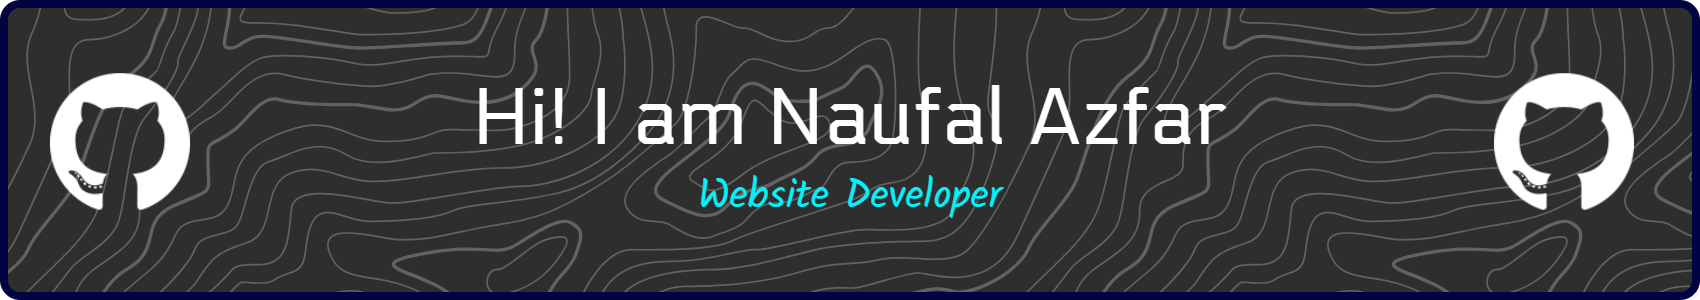
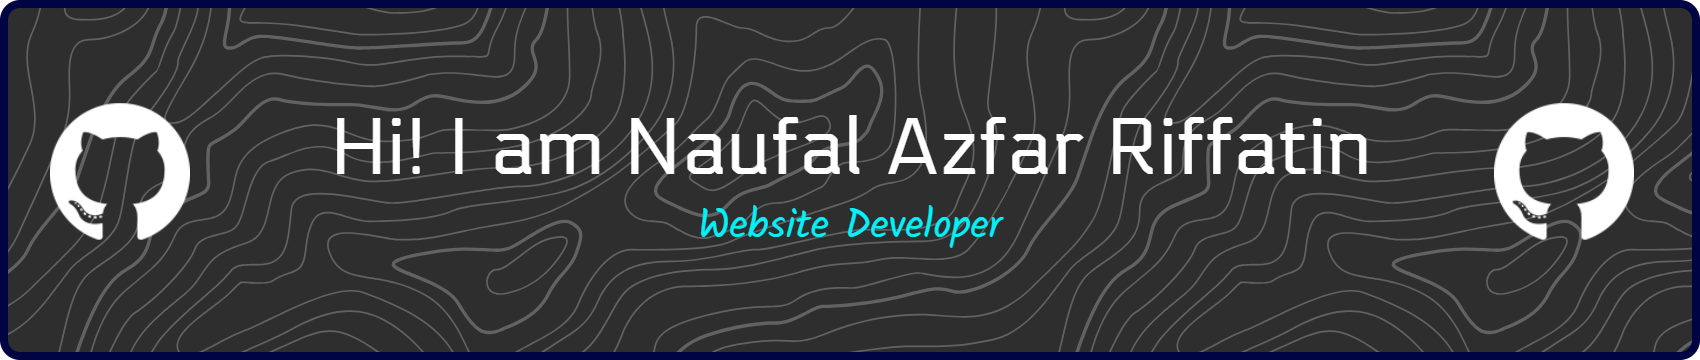
Update md

diff --git a/README.md b/README.md
@@ -1,17 +1,26 @@
 # Hi 👋, I'm Naufal Azfar Riffatin
 ![Naufal Azfar](img/github-banner.png)
 
-<p>I am a Website Developer who is passionate about learning and is curious.</p>
-<h2>🚀 Languages and Tools I Use</h2>
-<p><a target="_blank" href="https://raw.githubusercontent.com/devicons/devicon/master/icons/php/php-original.svg" style="display: inline-block;"><img src="https://raw.githubusercontent.com/devicons/devicon/master/icons/php/php-original.svg" alt="php" width="42" height="42" /></a>
-<a target="_blank" href="https://raw.githubusercontent.com/devicons/devicon/master/icons/css3/css3-original-wordmark.svg" style="display: inline-block;"><img src="https://raw.githubusercontent.com/devicons/devicon/master/icons/css3/css3-original-wordmark.svg" alt="css3" width="42" height="42" /></a>
-<a target="_blank" href="https://raw.githubusercontent.com/devicons/devicon/master/icons/html5/html5-original-wordmark.svg" style="display: inline-block;"><img src="https://raw.githubusercontent.com/devicons/devicon/master/icons/html5/html5-original-wordmark.svg" alt="html5" width="42" height="42" /></a>
-<a target="_blank" href="https://www.vectorlogo.zone/logos/tailwindcss/tailwindcss-icon.svg" style="display: inline-block;"><img src="https://www.vectorlogo.zone/logos/tailwindcss/tailwindcss-icon.svg" alt="tailwind" width="42" height="42" /></a>
-<a target="_blank" href="https://raw.githubusercontent.com/devicons/devicon/master/icons/bootstrap/bootstrap-plain-wordmark.svg" style="display: inline-block;"><img src="https://raw.githubusercontent.com/devicons/devicon/master/icons/bootstrap/bootstrap-plain-wordmark.svg" alt="bootstrap" width="42" height="42" /></a>
-<a target="_blank" href="https://raw.githubusercontent.com/devicons/devicon/master/icons/mysql/mysql-original-wordmark.svg" style="display: inline-block;"><img src="https://raw.githubusercontent.com/devicons/devicon/master/icons/mysql/mysql-original-wordmark.svg" alt="mysql" width="42" height="42" /></a>
-<a target="_blank" href="https://www.svgrepo.com/show/303229/microsoft-sql-server-logo.svg" style="display: inline-block;"><img src="https://www.svgrepo.com/show/303229/microsoft-sql-server-logo.svg" alt="mssql" width="42" height="42" /></a>
-<a target="_blank" href="https://www.vectorlogo.zone/logos/sqlite/sqlite-icon.svg" style="display: inline-block;"><img src="https://www.vectorlogo.zone/logos/sqlite/sqlite-icon.svg" alt="sqlite" width="42" height="42" /></a>
-<a target="_blank" href="https://www.vectorlogo.zone/logos/figma/figma-icon.svg" style="display: inline-block;"><img src="https://www.vectorlogo.zone/logos/figma/figma-icon.svg" alt="figma" width="42" height="42" /></a>
-<a target="_blank" href="https://raw.githubusercontent.com/devicons/devicon/master/icons/laravel/laravel-plain-wordmark.svg" style="display: inline-block;"><img src="img/laravel.png" alt="laravel" width="100" /></a>
-<a target="_blank" href="https://www.vectorlogo.zone/logos/git-scm/git-scm-icon.svg" style="display: inline-block;"><img src="https://www.vectorlogo.zone/logos/git-scm/git-scm-icon.svg" alt="git" width="42" height="42" /></a></p>
+I am a Website Developer who is passionate about learning and is curious.
+### 🚀 Programming Languages and Tools I’ve Learned
+<img src="https://img.shields.io/badge/VSCode-0078D4?style=for-the-badge&logo=visual%20studio%20code&logoColor=white" />
+<img src="https://img.shields.io/badge/HTML5-E34F26?style=for-the-badge&logo=html5&logoColor=white" />
+<img src="https://img.shields.io/badge/CSS3-1572B6?style=for-the-badge&logo=css3&logoColor=white" />
+<img src="https://img.shields.io/badge/JavaScript-323330?style=for-the-badge&logo=javascript&logoColor=F7DF1E" />
+<img src="https://img.shields.io/badge/PHP-777BB4?style=for-the-badge&logo=php&logoColor=white" />
+<img src="https://img.shields.io/badge/Laravel-FF2D20?style=for-the-badge&logo=laravel&logoColor=white" />
+<img src="https://img.shields.io/badge/phpmyadmin-6C78AF?style=for-the-badge&logo=phpmyadmin&logoColor=white" />
+<img src="https://img.shields.io/badge/MySQL-005C84?style=for-the-badge&logo=mysql&logoColor=white" />
+<img src="https://img.shields.io/badge/Sqlite-003B57?style=for-the-badge&logo=sqlite&logoColor=white" />
+<img src="https://img.shields.io/badge/Xampp-F37623?style=for-the-badge&logo=xampp&logoColor=white" />
+<img src="https://img.shields.io/badge/Laragon-0E83CD?style=for-the-badge&logo=Laragon&logoColor=white" />
+<img src="https://img.shields.io/badge/Bootstrap-563D7C?style=for-the-badge&logo=bootstrap&logoColor=white" />
+<img src="https://img.shields.io/badge/Tailwind_CSS-38B2AC?style=for-the-badge&logo=tailwind-css&logoColor=white" />
+<img src="https://img.shields.io/badge/Figma-F24E1E?style=for-the-badge&logo=figma&logoColor=white" />
+<img src="https://img.shields.io/badge/GIT-E44C30?style=for-the-badge&logo=git&logoColor=white" />
 
+### Connect with me
+![https://www.instagram.com/nfll__az/](https://img.shields.io/badge/Instagram-E4405F?style=for-the-badge&logo=instagram&logoColor=white)
+
+### My Github Stats
+[![Naufal Azfar GitHub stats](https://github-stats-extended.vercel.app/api?username=NaufalAzfar2109&show_icons=true&theme=github_dark)](https://github.com/stats-organization/github-stats-extended)
